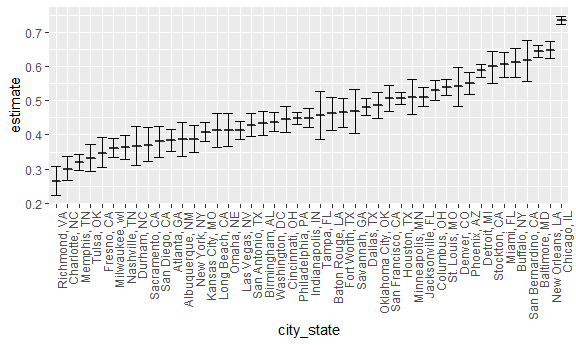
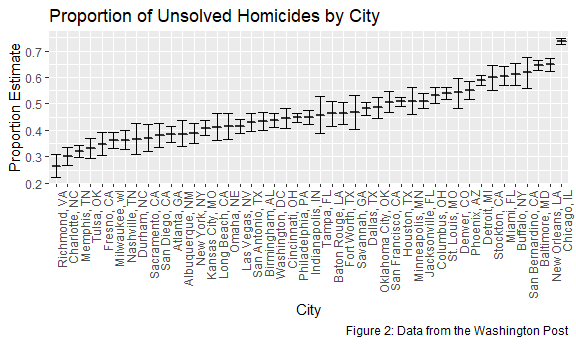
Safety commit. Fixing some grammatical errors and maximizing space.

diff --git a/p8105_hw5_bjl2150.md b/p8105_hw5_bjl2150.md
@@ -7,7 +7,8 @@ Problem 1
 =========
 
 ``` r
-# Made a dataframe with all the file names
+# Made a dataframe with all of the file names
+
 long = tibble(longitudinal = list.files(path = "./data", full.names = TRUE),
               map(longitudinal, read_csv)) %>% 
   janitor::clean_names() %>%
@@ -239,10 +240,13 @@ long = tibble(longitudinal = list.files(path = "./data", full.names = TRUE),
 
 ### Description of the raw dataset:
 
-This dataset contains results of subjects who were a part of an experiment. There were twenty subjects (ten assigned to the control arm and ten assigned to the exerimental arm, respectively) who were followed for a period of time. The zipfile, which contained the data, was comprised of twenty Excel per subject (twenty files in total). Each Excel spreadsheet contained observations over the eight weeks that they were followed.
+This dataset contained results of subjects who were a part of an experiment. There were twenty subjects (ten assigned to the control arm and ten assigned to the exerimental arm, respectively) who were followed for a period of time. The zipfile was comprised of an Excel file per subject (twenty files in total). Each Excel spreadsheet contained observations over the eight weeks that the subjects they stuided. The experiment was a longitudinal study.
+
+The 'map' function was used to iterate and read in all of the Excel files from the zipped folder.
 
 ``` r
 # Created this dataframe in order to extract the control 'arm' to be later added to another dataframe.
+
 long_tidy = separate(long, longitudinal, into = c("control_arm", "id.csv", "period"), sep = "_") %>%
   select(-period) %>%
   separate(control_arm, into = c("data", "arm"), sep = "/data/") %>%
@@ -254,6 +258,7 @@ long_tidy = separate(long, longitudinal, into = c("control_arm", "id.csv", "peri
 
 ``` r
 # Created a new dataframe in order to get make the 'subject_id' through wrangling of the data.
+
 two_long_tidy = long %>% 
   separate(longitudinal, into = c("control_arm", "id.csv", "data"), sep = "/") %>%
   select(-id.csv) %>%
@@ -261,10 +266,12 @@ two_long_tidy = long %>%
   select(-control_arm, -csv) 
 
 # Combined the two above dataframes to ensure that the 'arm' variable was included in the final dataframe.
+
 final = cbind(long_tidy, two_long_tidy)
 
 
 # Tidying the dataframe so that variable 'week' is in one column rather than spread out.
+
 long_gather = gather(final, key = week, value = n, week_1:week_8) %>%
   separate(week, into = c("number", "week"), sep = "_") %>%
   select(-number)
@@ -274,29 +281,33 @@ Problem 1.2
 -----------
 
 ``` r
-# Making of spaghetti plot showing observations on each subject over time.
+# Doing some more data wwrangling to 'group_by' the 'subject_id' variable.
+
 long_spaghetti = long_gather %>%
   distinct() %>%
   group_by(subject_id) 
   
-## It works!!!
+# Making of spaghetti plot showing observations on each subject over time.
+
 ggplot(long_spaghetti, aes(x = week, y = n, group = subject_id, color = arm)) + 
   geom_path() +
   labs(title = "Observations Over Time by Subject",
     x = "Week",
     y = "Observations",
-    caption = "Figure 1 illlustrates how subject obervations varied over time individually and by arm allocation.")
+    caption = "Figure 1 illlustrates variations in subject obervations over 
+    time individually and by arm allocation.")
 ```
 
 <img src="p8105_hw5_bjl2150_files/figure-markdown_github/unnamed-chunk-3-1.png" width="90%" />
 
-Figure 1 shows the observational trends by each subject in addition trends by arm allocation. The blue lines correspond to the exposed group while the red lines correspond to the control group. According to the figure, the control arm had a smaller number of observations over the weeks. Contrastingly, the experiment arm had higher numbers of observations over time. This figure suggests that the exeprimental arm may have had better outcomes as a result of trial drug that the research investigators were testing.
+Figure 1 shows the observational trends by each subject in addition trends by arm allocation. The blue lines correspond to the exposed group while the red lines correspond to the control group. According to the figure, the control arm had a smaller number of results over the weeks. Contrastingly, the experiment arm had higher numbers of results over time. Given no background on the purposed of this study, this figure suggests that the exeprimental arm may have had better outcomes as a result of a trial drug that the research investigators were testing.
 
 Problem 2
 =========
 
 ``` r
-# Reading in the homicide data
+# Reading in the homicide data.
+
 library(tidyverse)
 library(rvest)
 library(httr)
@@ -322,15 +333,17 @@ homicide_data = read_csv(file = "./homicidedata.csv")
 
 ### Description of the raw dataset:
 
-The homicide\_data provides information on the numbers of homicides commited within the fifty large U.S. cities. Within the dataset, the observations included are the vitcims' first and last name, age, race, city and state that the event transpired in as well as the disposition. The disposition in this context refers to the result of the homicide event. In other words, was the case closed, an arrest made, unsolved, et cetera.
+The homicide\_data provides information on the numbers of homicides committed within fifty large U.S. cities. Within the dataset, the observations included are the vitcims' first and last name, age, race, city and state that the event transpired in as well as the disposition. The disposition in this context refers to the result of the homicide event. In other words, was the case closed, an arrest made, unsolved, et cetera.
 
 ``` r
-# Making of the new variable 'city_state'
+# Making of the new variable 'city_state'.
+
 homicide_citystate = homicide_data %>%
   mutate(city_state = str_c(city, ", " , state)) %>%
   select(disposition, city_state)
 
-# Data wragling and tidying of dataframe to get the 'total_homicides' and 'unsolved_homicides' variables
+# Data wrangling and tidying of dataframe to get the 'total_homicides' and 'unsolved_homicides' variables.
+
 homicide_summarize = homicide_citystate %>% 
   group_by(disposition, city_state) %>%
   summarize(n = n()) %>%
@@ -346,19 +359,22 @@ Problem 2.2
 
 ### Utilzation of prop.test
 
-### Baltiomore, MD
+### Baltimore, MD
 
 ``` r
-# Filtered out Baltimore, MD from the homicide_summarize dataframe.
+# Filtered out 'Baltimore, MD' from the homicide_summarize dataframe.
+
 baltimore = homicide_summarize %>%
   filter(city_state == "Baltimore, MD") 
 
-# Using the prop.test function in order to get the proportions in Baltimore.
-# Made the resulting test into and R oject named 'baltimore_propr.
+# Using the prop.test function to gete proportions in Baltimore.
+#Made the resulting test into an R object named 'baltimore_propr'.
   
 baltimore_propr = prop.test(1825,2827, p=0.05) 
 
-# Used the broom::tidy function in order to tidy up the resulting ouput. Then selected the estimate, and low and high confidence intervals.
+# Used the broom::tidy function in order to tidy up the resulting ouput. 
+# Then selected the estimate as well as low and high confidence intervals.
+
 baltimore_propr %>%
   broom::tidy() %>%
   select(estimate, conf.low, conf.high)
@@ -375,23 +391,36 @@ Problem 2.3
 ### Proportion of unsolved homicides per cities
 
 ``` r
-# Usng the prrop.test within a mutate function in order to create a new variable where the map function was appplied to. Then tidied and unnested the 'new' column
-output = homicide_summarize %>%
+# Used the prop.test within a mutate function in order to create a new variable. # The 'map' function was applied and then, tidying and 'unnest'ing occurred. 
+
+city_state_propr = homicide_summarize %>%
   filter(total_homicides != "NA") %>%
   mutate(new =  map2(.x = unsolved_homicides, .y = total_homicides, ~prop.test(x = .x, n = .y))) %>%
   mutate(new =map(new, broom::tidy)) %>% 
   unnest()
 
-# Specifically selelcted out the estimates and both confidence intervals per city, state. Additonally, reordering the 'city_state' variable by the 'estimate' variable.
-city_state_output = output %>%
+# Specifically selected out the estimates and both confidence intervals columns.
+# Additonally, reordered the 'city_state' variable by the 'estimate' variable.
+
+city_state_output = city_state_propr %>%
   select(city_state, estimate, conf.low, conf.high, p.value) %>%
   mutate(city_state = forcats::fct_reorder(city_state, estimate))
 
-# Making of the boxplot with inclusion of error bars corresponding to low and high confidencce intervals.
+# Making of the boxplot with the inclusion of error bars for low and high CIs.
+# Used the 'geoom_errorbar' to complete the latter step.
+
 city_state_output %>% 
   ggplot(aes(x = city_state, y = estimate)) + geom_boxplot() +
   theme(axis.text.x = element_text(angle = 90, hjust = 1)) + 
-  geom_errorbar(aes(ymin = conf.low, ymax = conf.high))
+  geom_errorbar(aes(ymin = conf.low, ymax = conf.high)) +
+  labs(
+    title = "Proportion of Unsolved Homicides by City",
+    x = "City",
+    y = "Proportion Estimate",
+    caption = "Figure 2: Data from the Washington Post"
+  )
 ```
 
 <img src="p8105_hw5_bjl2150_files/figure-markdown_github/unnamed-chunk-7-1.png" width="90%" />
+
+Figure 2 illustrates the proprtion of unsolved estimates by the fifty cities collected by the Washington Post. A boxplot was used to create the graph and the 'geom\_errorbar' function was used to obtain the error bars using the confidence intervals. According to Figure 2, Chicago, Illinios is an outlier. This indicates that it has the highest proportion of unsolved homicides of these fifty cities.In Observing the rest of the cities, there is no apparent trend in the proportion of unsolved homicides by region. Additionally, for some of the observed estimates, many of these proportions are unsignificant as evidenced by the wide error bars (ex. Tampa, Fl.).
